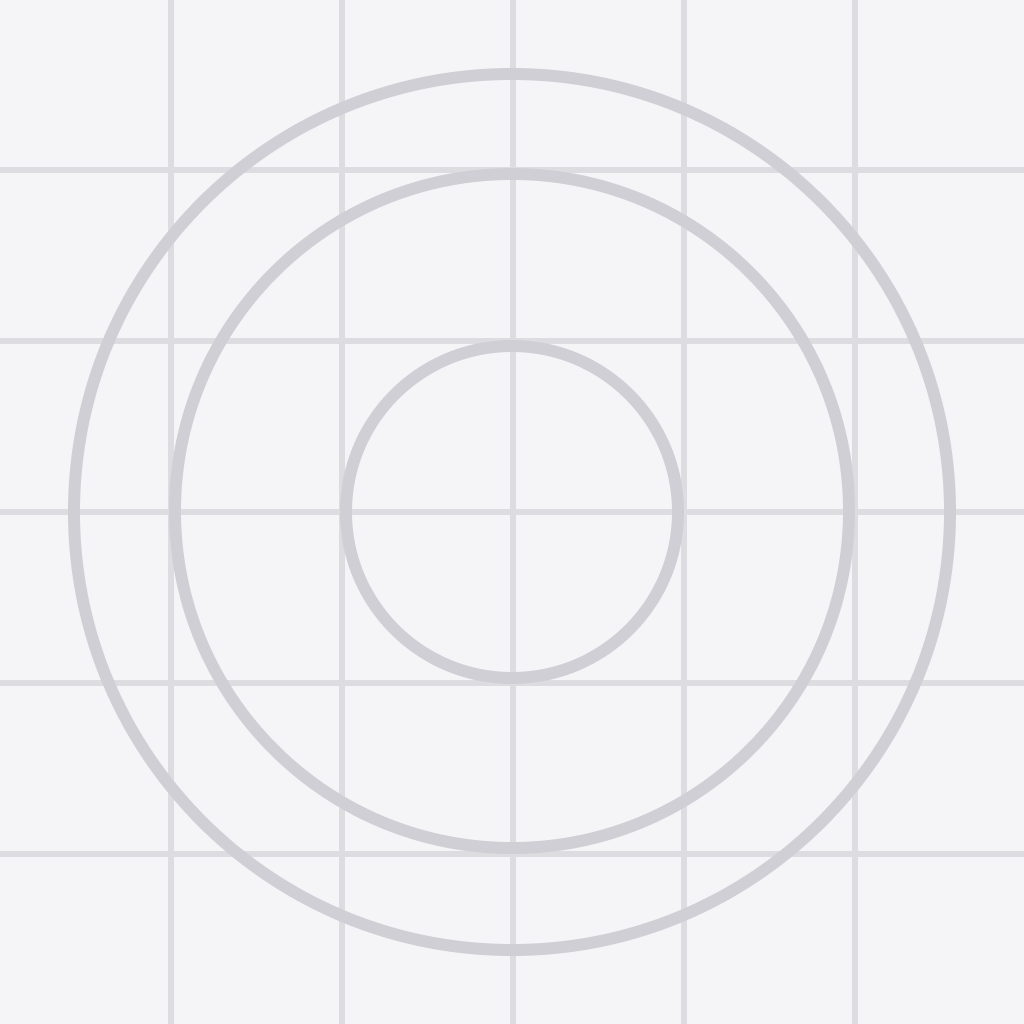
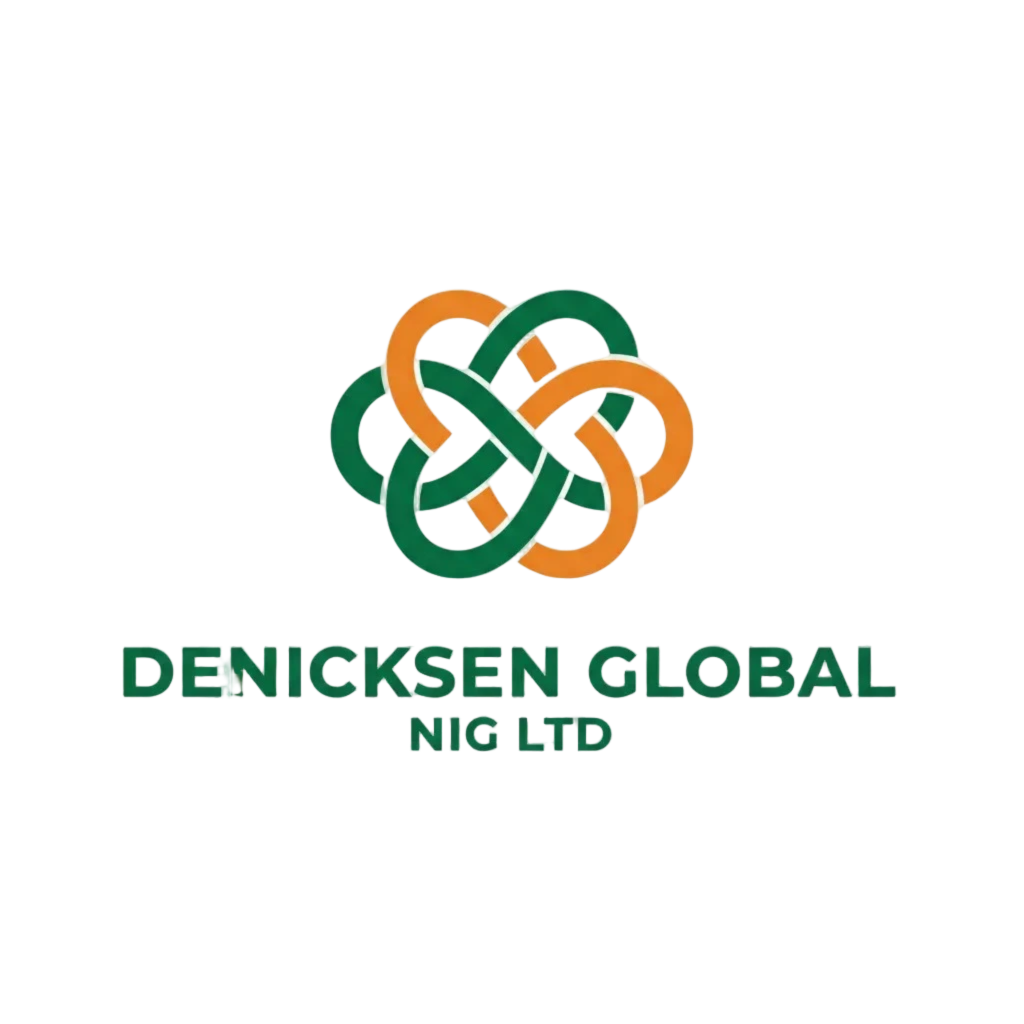
latest update

diff --git a/src/screens/mechanic/MechanicProfileScreen.tsx b/src/screens/mechanic/MechanicProfileScreen.tsx
@@ -88,6 +88,7 @@ export function MechanicProfileScreen() {
           guarantorAddress: p?.guarantorAddress ?? '',
           vehicleTypes: Array.isArray(p?.vehicleTypes) ? p.vehicleTypes : [],
           expertise: Array.isArray(p?.expertise) ? p.expertise : [],
+          brands: Array.isArray(p?.brands) ? p.brands : [],
         })
       })
       .catch(() => {})
@@ -187,7 +188,7 @@ export function MechanicProfileScreen() {
       guarantorAddress: form.guarantorAddress.trim() || undefined,
       vehicleTypes: form.vehicleTypes.length ? form.vehicleTypes : undefined,
       expertise: form.expertise.length ? form.expertise : undefined,
-      brands: form.brands.length ? form.brands : undefined,
+      brands: (form.brands ?? []).length ? (form.brands ?? []) : undefined,
     }
     try {
       await mechanicsAPI.updateProfile(payload)
@@ -253,8 +254,8 @@ export function MechanicProfileScreen() {
           />
         </View>
 
-        <Text style={styles.name}>{profile?.companyName || user?.companyName}</Text>
-        <Text style={styles.email}>{profile?.ownerFullName || user?.email}</Text>
+        <Text style={styles.name}>{profile?.companyName ?? user?.companyName ?? '—'}</Text>
+        <Text style={styles.email}>{profile?.ownerFullName ?? user?.email ?? '—'}</Text>
 
         <View style={styles.availRow}>
           <Text style={styles.availLabel}>Availability</Text>
@@ -300,9 +301,9 @@ export function MechanicProfileScreen() {
 
         <Text style={styles.sectionLabel}>Car brands you work on</Text>
         <Text style={styles.hintText}>Select the brands you can service (e.g. Toyota, Honda).</Text>
-        <TouchableOpacity style={styles.selectChip} onPress={() => { setPickerOpen('brands'); setPickerValue(form.brands); }}>
+        <TouchableOpacity style={styles.selectChip} onPress={() => { setPickerOpen('brands'); setPickerValue(form.brands ?? []); }}>
           <Text style={styles.selectChipText}>
-            {form.brands.length ? form.brands.join(', ') : 'Select'}
+            {(form.brands ?? []).length ? (form.brands ?? []).join(', ') : 'Select'}
           </Text>
           <Ionicons name="chevron-down" size={18} color={colors.neutral[500]} />
         </TouchableOpacity>
@@ -369,7 +370,7 @@ export function MechanicProfileScreen() {
               keyExtractor={(item) => item.value}
               renderItem={({ item }) => {
                 const key = pickerOpen === 'vehicleTypes' ? 'vehicleTypes' : pickerOpen === 'expertise' ? 'expertise' : 'brands'
-                const selected = form[key].includes(item.value)
+                const selected = (form[key] ?? []).includes(item.value)
                 return (
                   <TouchableOpacity
                     style={styles.pickerItem}

diff --git a/app.config.js b/app.config.js
@@ -15,6 +15,15 @@ module.exports = {
         owner: 'treyp99s-organization',
       },
     },
+    ios: {
+      ...base.ios,
+      bundleIdentifier: 'com.anonymous.mechanicplatformmobile',
+      buildNumber: '2',
+      infoPlist: {
+        ...base.ios?.infoPlist,
+        ITSAppUsesNonExemptEncryption: false,
+      },
+    },
     android: {
       ...base.android,
       package: 'com.anonymous.mechanicplatformmobile',